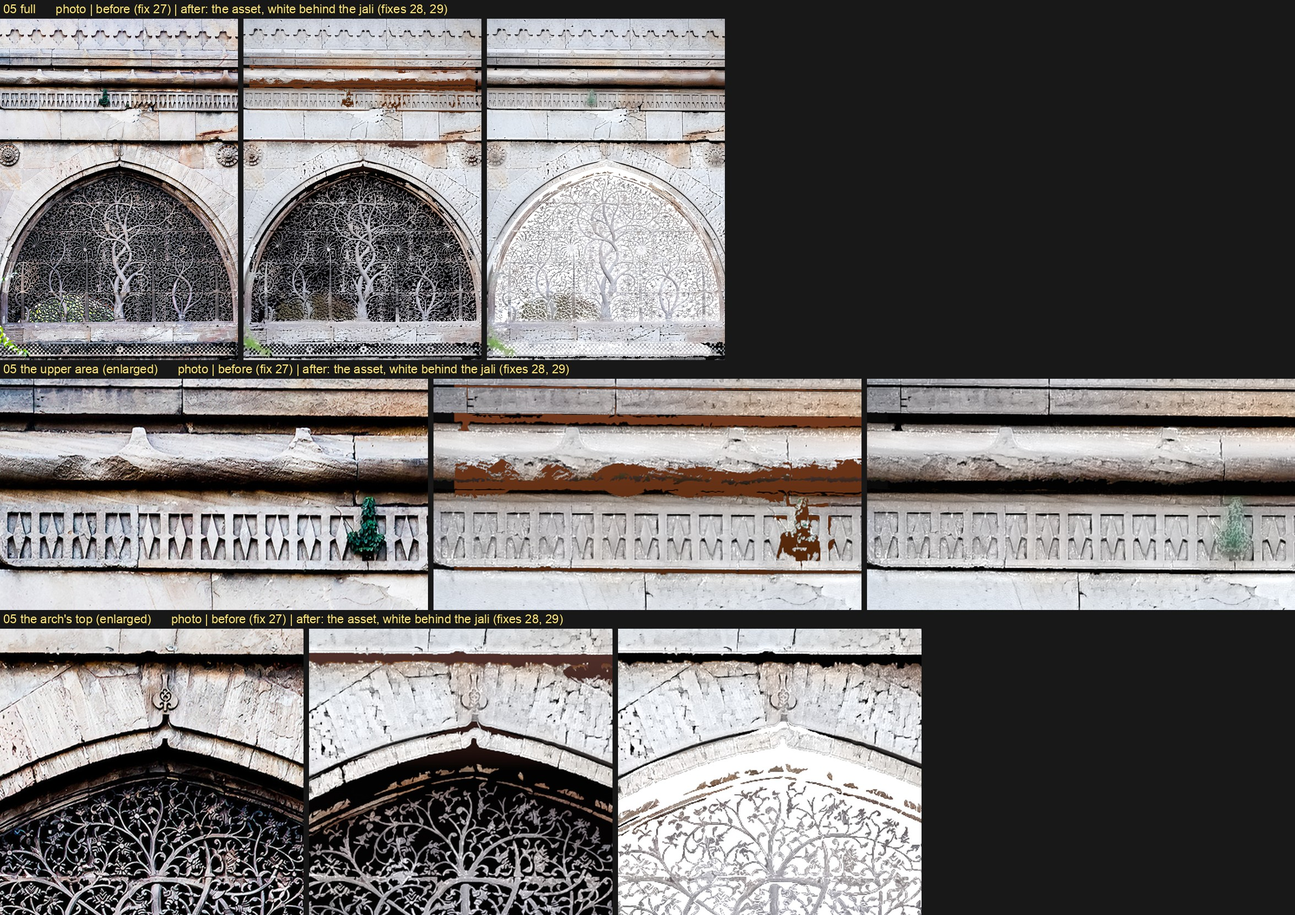
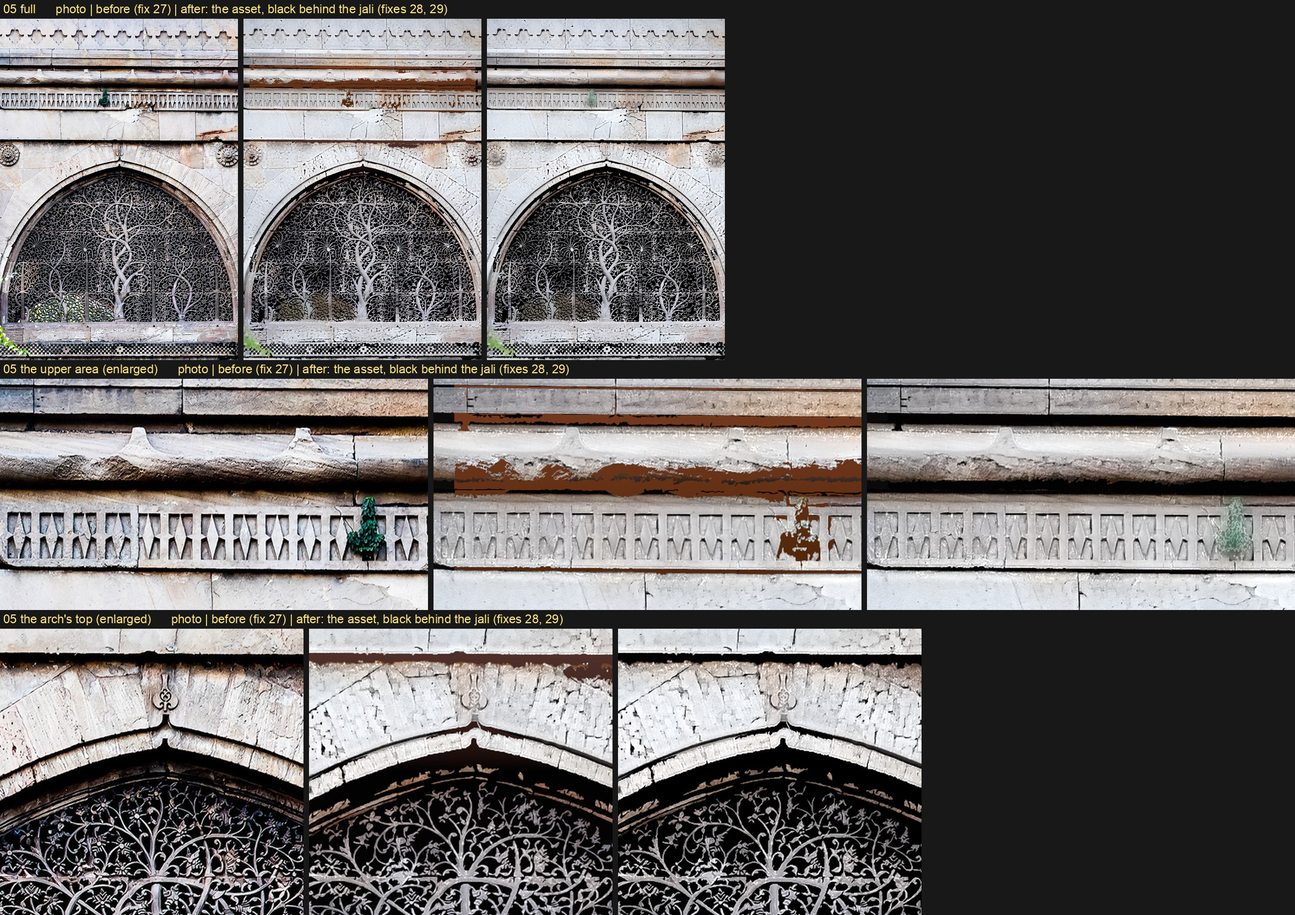
C-023 fix 28: the asset over black, not white (the user, on c023_asset.jpg: "we should have made the background black, not white"). --asset-bg white keeps white; asset_rgba.png unchanged. 05 recomposed from its alpha, no render; the sheet redone

Changed region(s): [[0.4658, 0.7671, 0.7142, 1.0], [0.3726, 0.1841, 0.5589, 0.3989]]

diff --git a/shots/jali-match/build.py b/shots/jali-match/build.py
@@ -1699,7 +1699,8 @@ log["render"] = dict(seconds=round(sec, 1), samples=SAMPLES, size=[W, H], spot_w
 # photo's (05's upper bands were brown, linear 0.084, 0.050, 0.037, and its colour step tripled that). The asset is
 # rendered once more from the same scene: on camera rays the wall is a holdout, so where the camera would see the wall
 # or the world the asset is empty (asset_rgba.png, alpha 0), while the wall still lights the stone as it did. Then
-# the same tone curve, colour step and toe as render.png, and over white: asset.png. --no-asset: none.
+# the same tone curve, colour step and toe as render.png, and over black: asset.png (first over white; the user, on
+# 05: "we should have made the background black, not white"). --asset-bg white: over white. --no-asset: none.
 if "--no-asset" not in argv:
     _out_node = next(n for n in wn.nodes if n.type == "OUTPUT_MATERIAL")
     _lp = wn.nodes.new("ShaderNodeLightPath")
@@ -1729,9 +1730,10 @@ if "--no-asset" not in argv:
         _st = np.where(_away[..., None], _rd, _st)
         _al = np.where(_away, 1.0, _al)
     C.write_png(os.path.join(OUT, "asset_rgba.png"), np.concatenate([_st * _al[..., None], _al[..., None]], -1))   # and
-    C.write_png(os.path.join(OUT, "asset.png"), _st * _al[..., None] + (1.0 - _al[..., None]))     # un-premultiplies
+    ASSET_BG = 1.0 if "--asset-bg" in argv and argv[argv.index("--asset-bg") + 1] == "white" else 0.0
+    C.write_png(os.path.join(OUT, "asset.png"), _st * _al[..., None] + ASSET_BG * (1.0 - _al[..., None]))   # un-premultiplies
     log["asset"] = dict(seconds=round(sec_a, 1), empty_share=round(float((_al < 0.5).mean()), 4),
-                        finish=len(FINISH), files=["asset.png (over white)", "asset_rgba.png"])
+                        finish=len(FINISH), background="white" if ASSET_BG else "black", files=["asset.png", "asset_rgba.png"])
     print("ASSET", log["asset"], flush=True)
 log["seconds"] = round(time.time() - T0, 1)
 for path in (os.path.join(OUT, "build.json"), os.path.join(shot.RESULTS, "build.json")):

diff --git a/CARD.md b/CARD.md
@@ -2010,6 +2010,10 @@ takes render.png outside the carved field (fix 29's mask, 3 px wider), where the
 (`--asset-everywhere`: not). 05 at that: SSIM 0.724, openings IoU 0.882, its strips 0.008 in both. Left for the user's
 eye: under the arch's crown the photo's shadowed gap between the arch and the lattice reads as opening, so the asset
 shows a band of white there with a few stone fragments in it. Ours and the 18 to be rebuilt with fixes 27 to 29.
+The user, on that sheet: "we should have made the background black, not white". asset.png is now over black
+(`--asset-bg white`: as first made); 05's recomposed from its asset_rgba.png, no render needed. On black the band under
+the crown reads as the photo's dark gap. Still visible: the bushes behind 05's lower lattice are read as stone (dark
+olive patches where the photo shows leaves through the holes).
 
 *Open, not yet fixed.* The tone curve's upper exponent sits at its limit of 4.0 in 8 of the 13 renders that C-022
 measured (ours 2.12), and with the fit's stone corrected 03, 05, 09 and 15 end at both limits (0.3 and 4.0); the
